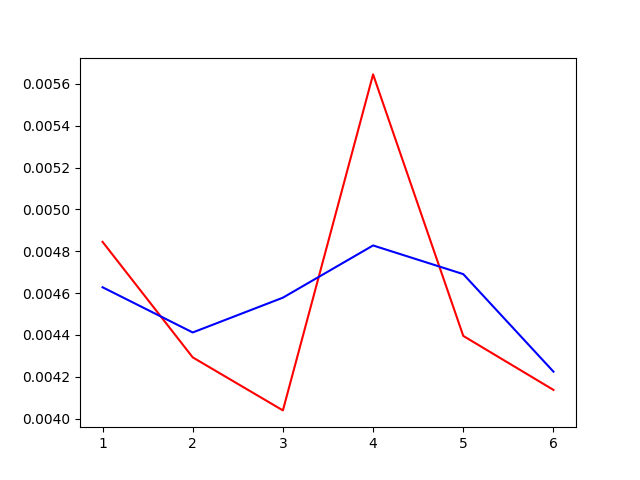
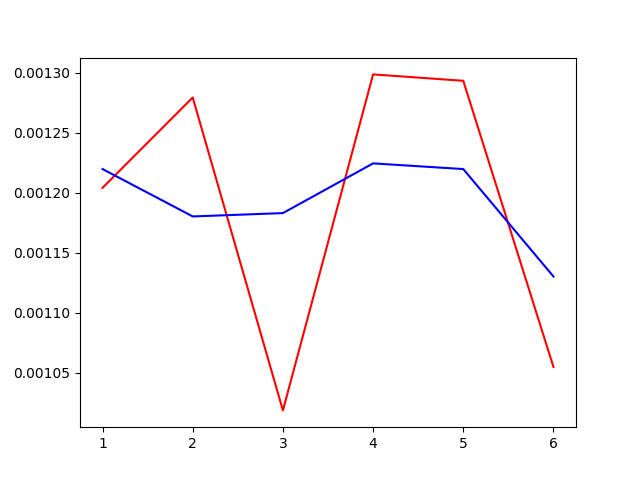
Smoothing whole matrix

diff --git a/test.py b/test.py
@@ -16,7 +16,7 @@ def rbf_optimization(S, sigma, lambda_m):
     alpha = 0.1
 
     for it in range(0, nIter):
-        print("Iteration : ", it)
+        #print("Iteration : ", it)
         # S_cont = comp_rbf_val(W, time_points, sigma)
         S_cont = comp_rbf_val(W, time_points, sigma)
         # S_cont = np.exp(S_cont) / sum(S_cont)
@@ -43,9 +43,8 @@ def comp_rbf_val(W, time_points, sigma):
     return np.matmul(radial_basis, np.transpose(W))
 
 
-
 if __name__ == "__main__":
-    data_dir = '/home/turja/AD-Data_Organized'
+    data_dir = os.path.join(os.path.dirname(os.getcwd()), 'AD-Data_Organized')
     sub = '094_S_4234'
     mat_list = readMatricesFromDirectory(os.path.join(data_dir, sub))
 
@@ -58,26 +57,36 @@ if __name__ == "__main__":
 
     out.close()
     '''
-
+    n = len(mat_list[0])
     S_list = []
-    row = [6]
-    col = [5]
+    cont_mat_list = [np.zeros((n, n)) for i in range(0, len(mat_list))]
 
-    for i in range(0, len(row)):
+    avg = np.ones((n, n))
+    for mat in mat_list:
+        avg = np.multiply(mat, avg)
+
+    pos = [(i, j) if avg[i, j] > 0 else (-1, -1) for i in range(0, n) for j in range(0, n)]
+    pos = list(filter(lambda a: a != (-1, -1), pos))
+    print("Pos len: ", len(pos))
+
+    for i in range(0, len(pos)):
         S = []
+        row, col = pos[i]
         for mat in mat_list:
-            S.append(mat[row[i]][col[i]])
-            #S.append(np.amax(mat))
+            S.append(mat[row][col])
 
         S_list.append(S)
-    num_of_plot = len(row)
+
+
+    num_of_plot = len(pos)
     i = 1
+    long_link_val = []
     for S in S_list:
         S = np.asarray(S)
         sigma = 2
         lambda_m = 0.1
         T = [i + 1 for i in range(0, len(S))]
-        step=1
+        step = 1
         time_points = [i / step for i in range(step, step * (len(S) + 1))]
 
         mean_S = np.mean(S)
@@ -87,15 +96,27 @@ if __name__ == "__main__":
 
         val = comp_rbf_val(W, time_points, sigma) + mean_S
         S = S + mean_S
+        long_link_val.append(val)
         print("\nactual val: ", S,
               "\noutput : ", val,
               "\nW = ", W)
 
-        plt.subplot(num_of_plot, 1, i)
-        plt.plot(T, S, color='red')
-        plt.plot(time_points, val, color='blue')
-        i = i + 1
+        #plt.subplot(num_of_plot, 1, i)
+        #plt.plot(T, S, color='red')
+        #plt.plot(time_points, val, color='blue')
+        #i = i + 1
 
-    pylab.savefig('out.png')
-    plt.show()
+    #pylab.savefig('out.png')
+    #plt.show()
+
+    print(len(long_link_val))
+
+    for i in range(0, len(long_link_val)):
+        row, col = pos[i]
+        for t in range(0, len(cont_mat_list)):
+            cont_mat = cont_mat_list[t]
+            cont_mat[row, col] = long_link_val[i][t]
+
+
+
 

diff --git a/compare_network.py b/compare_network.py
@@ -41,7 +41,7 @@ def get_sorted_index(c1):
 
 
 if __name__ == "__main__":
-    data_dir = '/home/turja/AD-Data_Organized'
+    data_dir = os.path.join(os.path.dirname(os.getcwd()), 'AD-Data_Organized')
     subjects = [f for f in os.listdir(data_dir)]
     matches = []
     for sub in subjects:

diff --git a/utils/readFile.py b/utils/readFile.py
@@ -21,7 +21,7 @@ def readMatricesFromDirectory(directory):
     mat_list = []
     for file in files:
         a = readMatrixFromTextFile(join(directory, file))
-        a /= a.sum()
+        #a /= a.sum()
         mat_list.append(a)
 
     return mat_list
